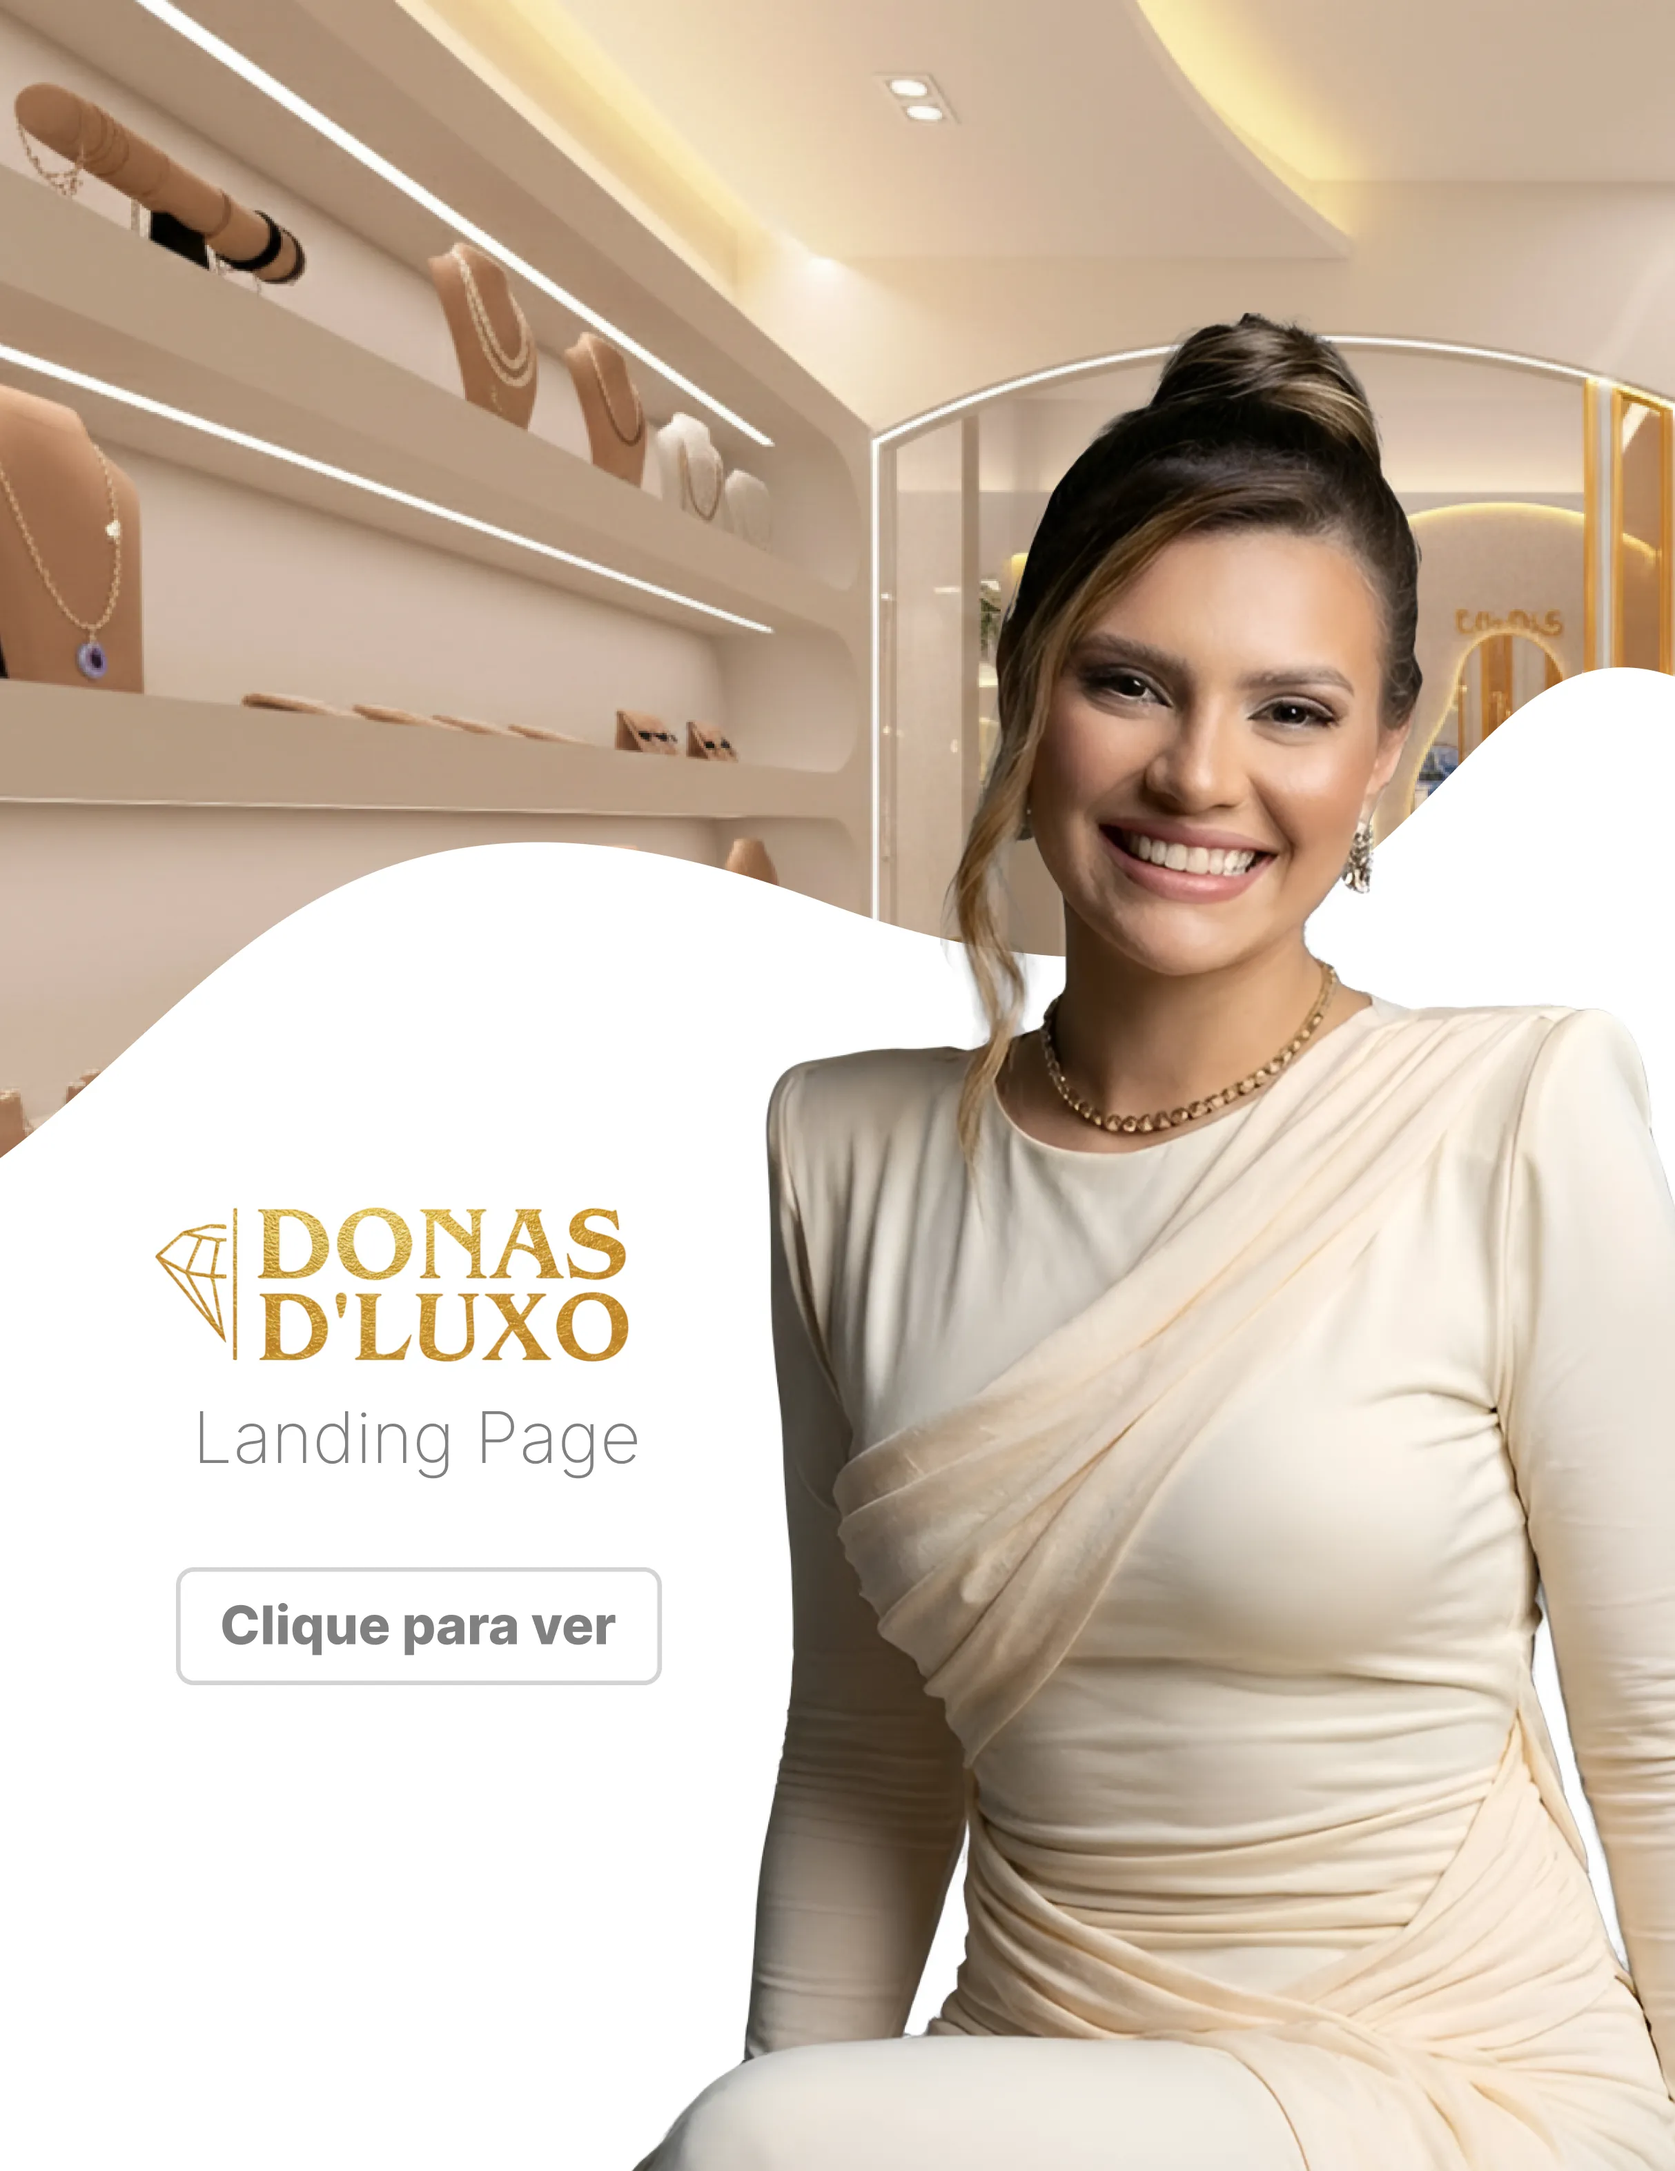
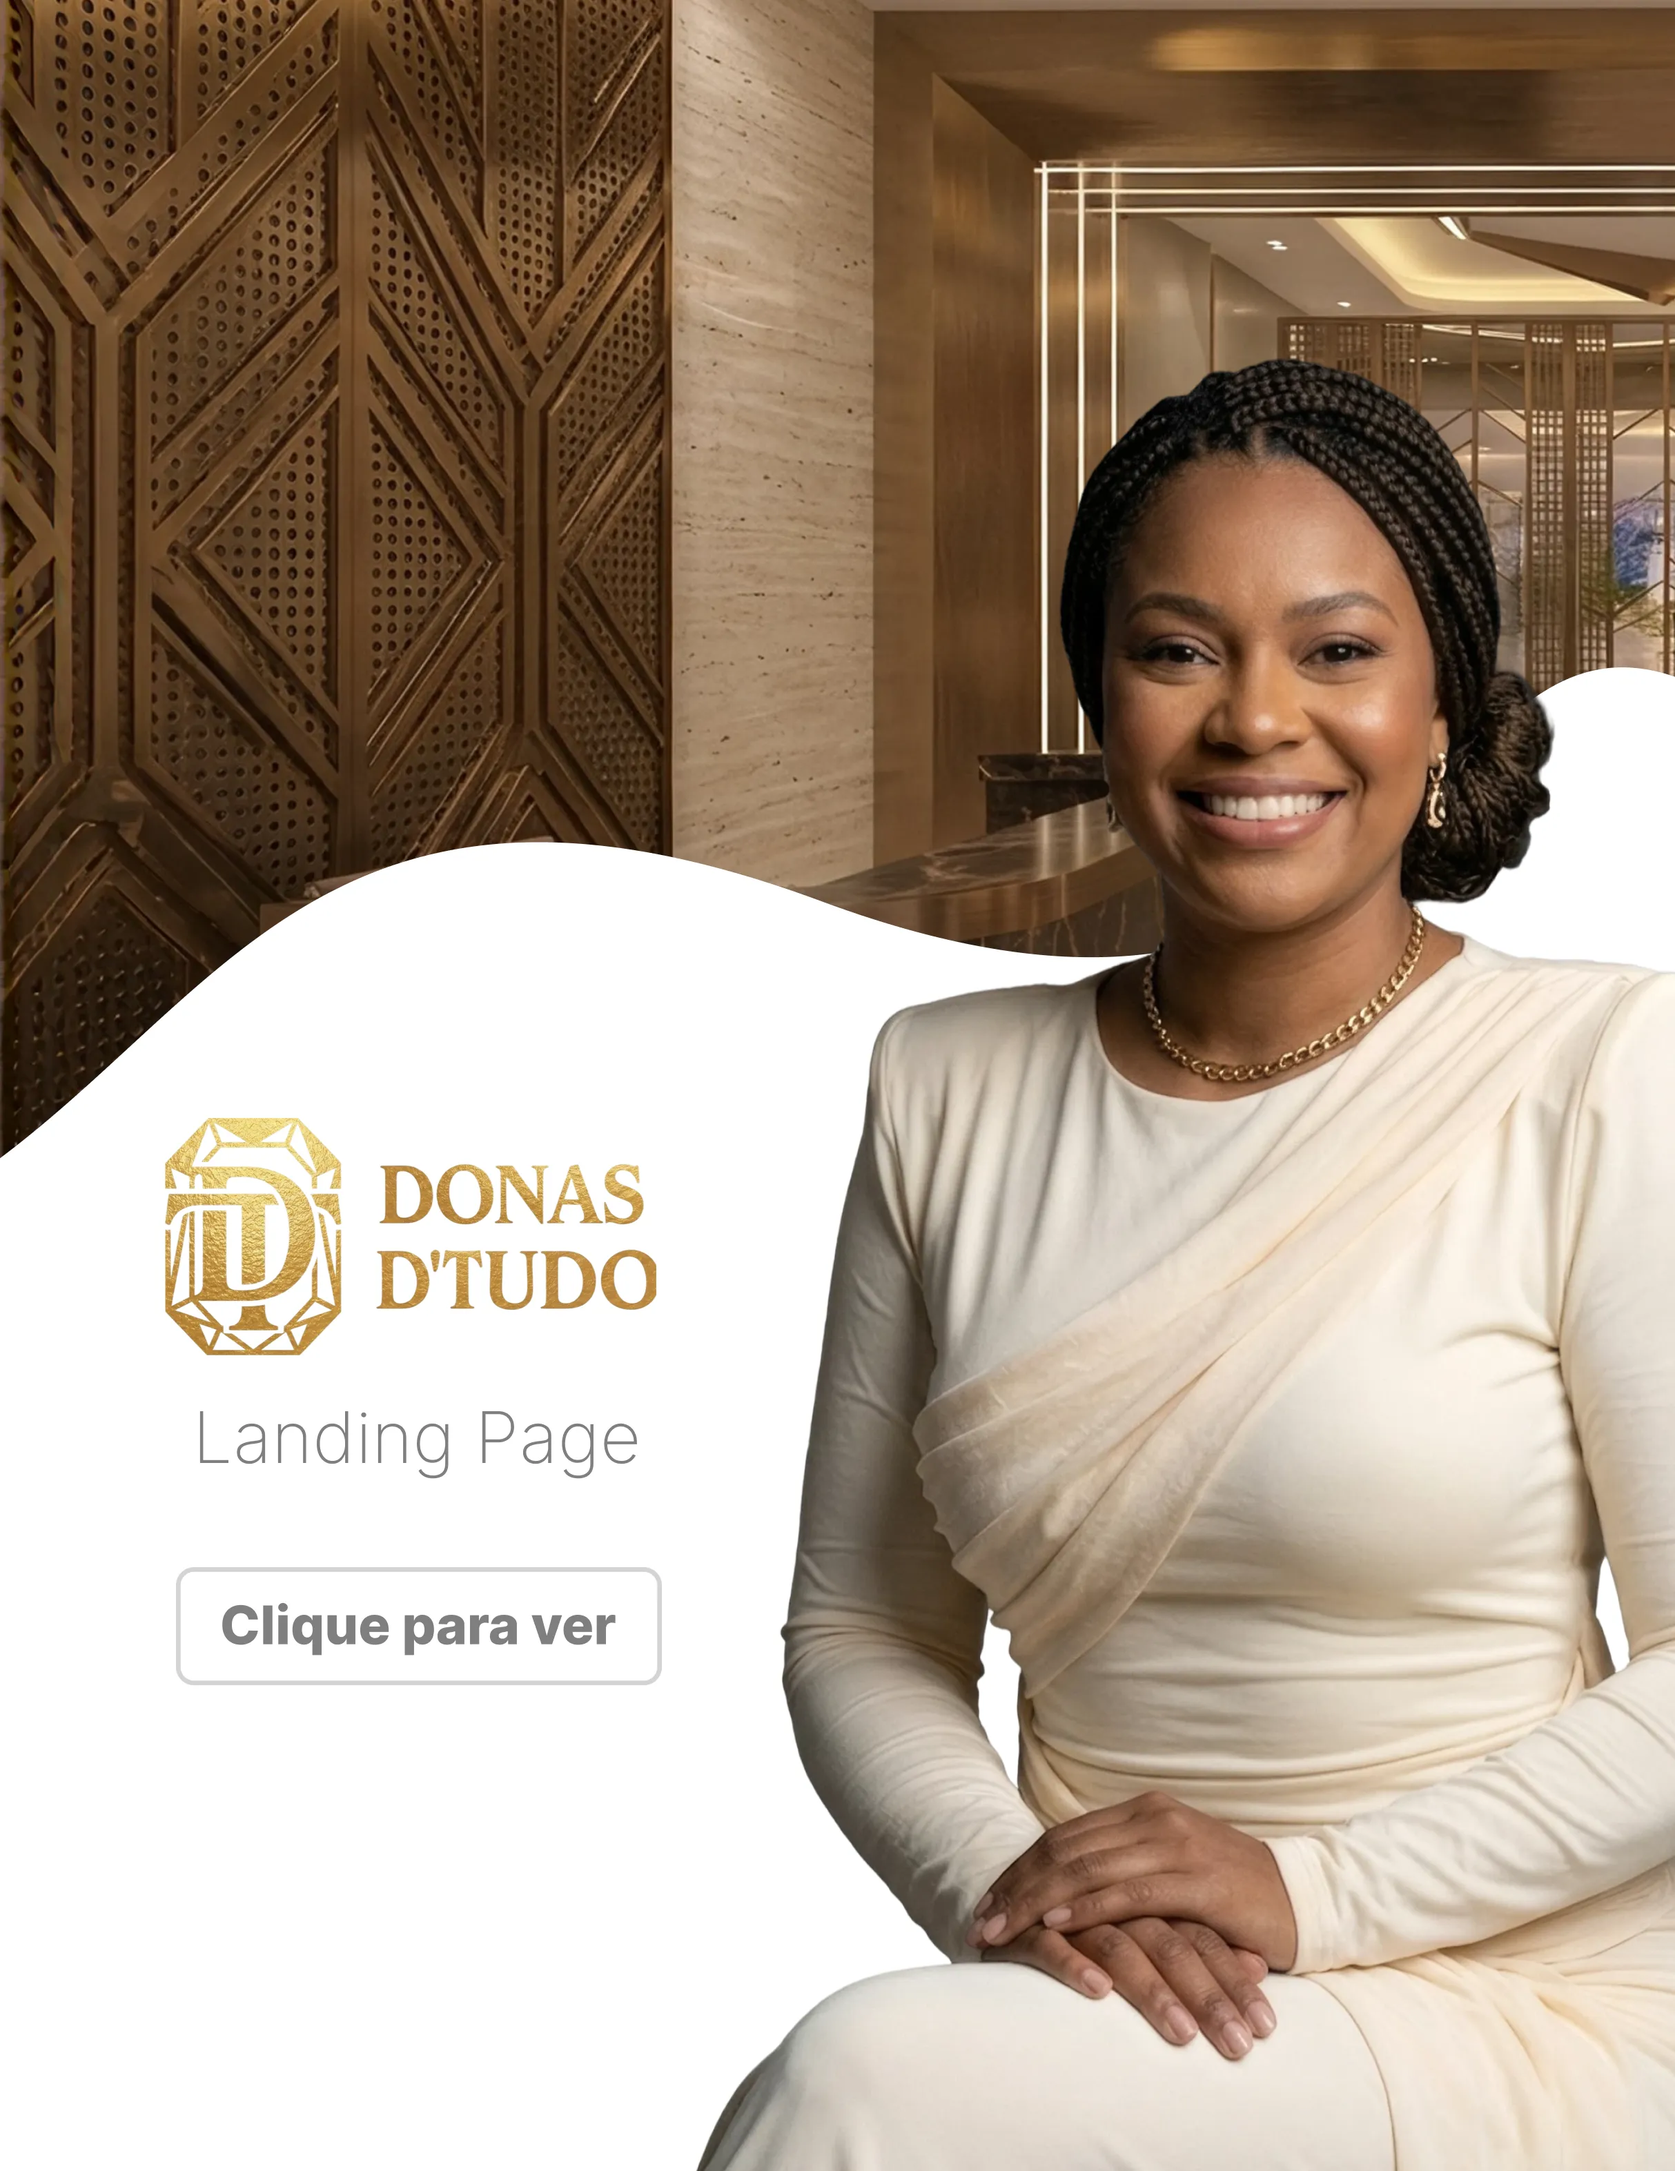
out-luxo

diff --git a/src/components/Portfolio.js b/src/components/Portfolio.js
@@ -6,9 +6,9 @@ import { portfolioSlider } from "../swiperSliderProps";
 const IMAGES = [
   {
     src: "/img/portfolio/1.webp",
-    link: "https://jeffuchoa.github.io/Donas-de-Luxo/",
+    link: "https://jeffuchoa.github.io/donas-de-tudo/",
     thumbnail: "/img/portfolio/1.jpg",
-    title: "Donas D' Luxo",
+    title: "Donas D' Tudo",
     sub: "Landing Page"
   },
   {
